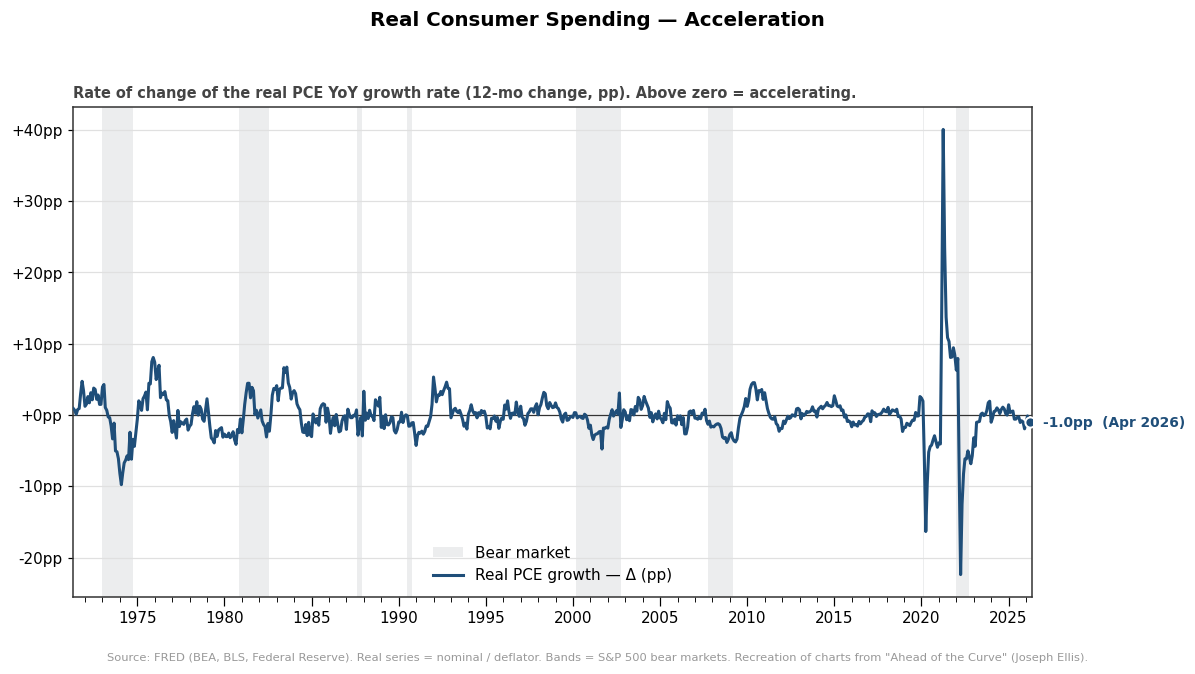
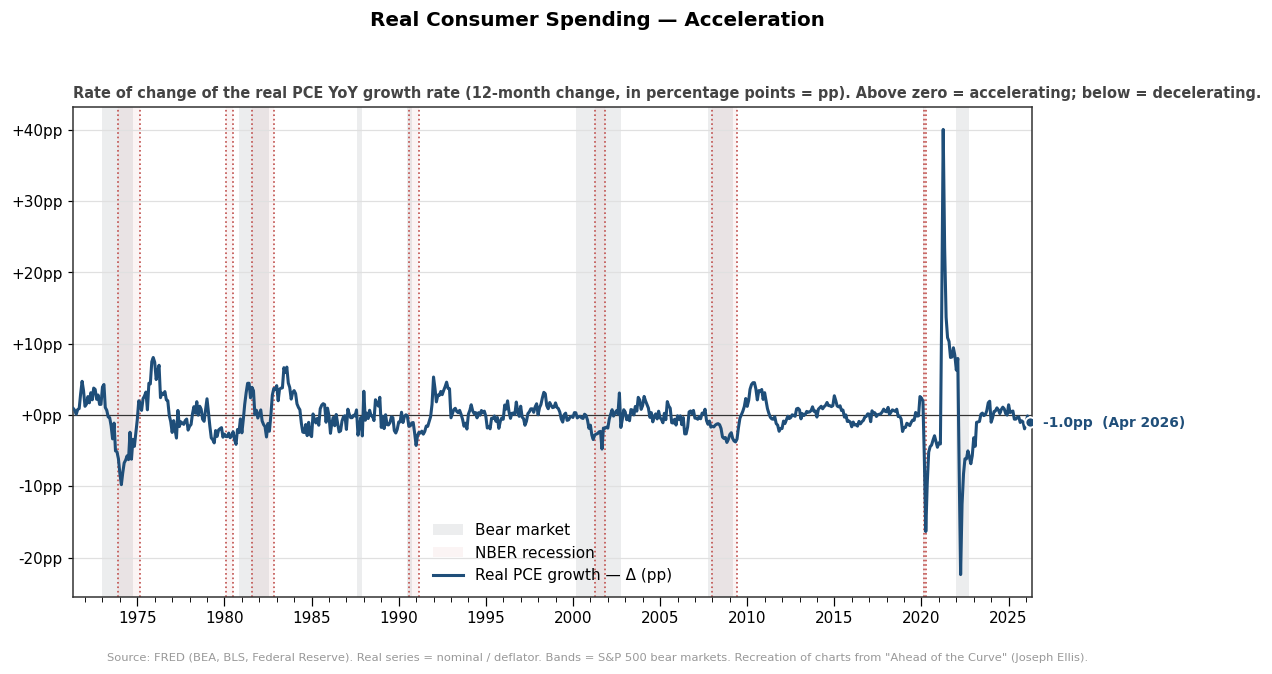
Ahead of the Curve: release footnotes, TOC, recession overlay, pp label
Per request:

- Release-schedule footnotes beneath each chart in the gallery: how often
  the series publishes, the latest period, the next expected release date
  (from FRED's release calendar), and which period that release covers --
  e.g. "Real PCE: monthly - latest Apr 2026 - next release ~Jun 25, 2026
  (covers May 2026)". New ahead_of_curve/schedule.py (series -> FRED
  release_id, reusing the release_calendar_ids from release_families.yaml).
- Clickable index (table of contents) at the top of the gallery, anchor
  links to each chart, with per-chart "back to index" links.
- NBER recession overlay, drawn distinctly from the grey bear-market bands:
  a faint red wash bracketed by dotted vertical lines at the official peak
  and trough. All figures now bands: both (grey bear + dotted recession).
- "pp" spelled out in the acceleration subtitles: "(12-month change, in
  percentage points = pp)".

Also: _sample_toggle.html -- a dependency-free proof-of-concept showing the
band overlays toggling on/off globally and per-chart (image-swap between
band/no-band variants), to answer whether interactive toggles are feasible.
Not wired into the real gallery.

Tests: +1 (figure_footnotes cadence/next-release/period). 135 total green.

diff --git a/readable/ahead_of_curve/index.html b/readable/ahead_of_curve/index.html
@@ -4,15 +4,30 @@
 <style>
  body { font-family: -apple-system, Segoe UI, Roboto, sans-serif; max-width: 980px;
         margin: 2rem auto; padding: 0 1rem; color: #222; }
- h1 { font-size: 1.5rem; }
- .meta { color: #777; font-size: .85rem; margin-bottom: 2rem; }
- section { margin: 2.5rem 0; }
- h2 { font-size: 1.1rem; margin-bottom: .2rem; }
+ h1 { font-size: 1.5rem; margin-bottom: .2rem; }
+ .meta { color: #777; font-size: .85rem; margin-bottom: 1.5rem; }
+ .toc { background: #f7f8fa; border: 1px solid #e2e2e2; border-radius: 8px;
+         padding: .8rem 1.2rem; margin-bottom: 2.5rem; }
+ .toc ol { margin: .4rem 0 0; padding-left: 1.4rem; }
+ .toc li { margin: .2rem 0; }
+ .toc a { color: #1F4E79; text-decoration: none; }
+ .toc a:hover { text-decoration: underline; }
+ section { margin: 2.5rem 0; scroll-margin-top: 1rem; }
+ h2 { font-size: 1.15rem; margin-bottom: .2rem; }
  .sub { color: #555; font-size: .9rem; margin: 0 0 .6rem; }
  img { width: 100%; border: 1px solid #e2e2e2; border-radius: 6px; }
+ .foot-label { font-size: .75rem; text-transform: uppercase; letter-spacing: .04em;
+                color: #999; margin: .8rem 0 .2rem; }
+ ul.foot { margin: 0; padding-left: 1.2rem; color: #555; font-size: .82rem; }
+ ul.foot li { margin: .15rem 0; }
+ .back { font-size: .8rem; margin-top: .6rem; }
+ .back a { color: #999; text-decoration: none; }
 </style></head><body>
+<a id="top"></a>
 <h1>Ahead of the Curve — Charts</h1>
 <p class="meta">Recreation of Joseph Ellis's charts · year-over-year rate of change ·
-shaded bands = S&amp;P 500 bear markets · data through 2026-05-01 · 8 charts</p>
-<section><h2>Real Consumer Spending (PCE), Year-over-Year</h2><p class="sub">The leading indicator: real PCE growth peaks and rolls over ahead of bear markets.</p><img src="real_pce_yoy.png" alt="Real Consumer Spending (PCE), Year-over-Year"/></section><section><h2>Real Consumer Spending — Acceleration</h2><p class="sub">Rate of change of the real PCE YoY growth rate (12-mo change, pp). Above zero = accelerating.</p><img src="pce_accel.png" alt="Real Consumer Spending — Acceleration"/></section><section><h2>Consumer Spending Leads Capital Spending</h2><p class="sub">Real business capex (YoY) follows real PCE (YoY) with a lag — the book's core lead/lag.</p><img src="pce_leads_capex.png" alt="Consumer Spending Leads Capital Spending"/></section><section><h2>Real Capital Spending — Acceleration</h2><p class="sub">Rate of change of the real business-capex YoY growth rate (12-mo change, pp). Above zero = accelerating.</p><img src="capex_accel.png" alt="Real Capital Spending — Acceleration"/></section><section><h2>Consumer Spending and Employment</h2><p class="sub">Employment growth (YoY) tracks and follows real consumer spending.</p><img src="pce_vs_employment.png" alt="Consumer Spending and Employment"/></section><section><h2>Real Hourly Earnings and Consumer Spending</h2><p class="sub">Real average hourly earnings (AHETPI deflated by CPI), YoY, vs real PCE.</p><img src="real_earnings_vs_spending.png" alt="Real Hourly Earnings and Consumer Spending"/></section><section><h2>Real Hourly Earnings — Acceleration</h2><p class="sub">Rate of change of the real-hourly-earnings YoY growth rate (12-mo change, pp). Above zero = accelerating.</p><img src="earnings_accel.png" alt="Real Hourly Earnings — Acceleration"/></section><section><h2>Interest Rates and Bear Markets</h2><p class="sub">Fed funds and the 10-year Treasury (levels) against the bear-market record.</p><img src="rates_vs_bears.png" alt="Interest Rates and Bear Markets"/></section>
+grey bands = S&amp;P 500 bear markets · dotted red = NBER recessions · data through 2026-05-01 ·
+8 charts</p>
+<nav class="toc"><strong>Charts on this page</strong><ol><li><a href="#real_pce_yoy">Real Consumer Spending (PCE), Year-over-Year</a></li><li><a href="#pce_accel">Real Consumer Spending — Acceleration</a></li><li><a href="#pce_leads_capex">Consumer Spending Leads Capital Spending</a></li><li><a href="#capex_accel">Real Capital Spending — Acceleration</a></li><li><a href="#pce_vs_employment">Consumer Spending and Employment</a></li><li><a href="#real_earnings_vs_spending">Real Hourly Earnings and Consumer Spending</a></li><li><a href="#earnings_accel">Real Hourly Earnings — Acceleration</a></li><li><a href="#rates_vs_bears">Interest Rates and Bear Markets</a></li></ol></nav>
+<section id="real_pce_yoy"><h2>Real Consumer Spending (PCE), Year-over-Year</h2><p class="sub">The leading indicator: real PCE growth peaks and rolls over ahead of bear markets.</p><img src="real_pce_yoy.png" alt="Real Consumer Spending (PCE), Year-over-Year"/><p class="foot-label">Release schedule</p><ul class="foot"><li>Real PCE (YoY): monthly · latest Apr 2026 · next release ~Jun 25, 2026 (covers May 2026)</li></ul><p class="back"><a href="#top">↑ back to index</a></p></section><section id="pce_accel"><h2>Real Consumer Spending — Acceleration</h2><p class="sub">Rate of change of the real PCE YoY growth rate (12-month change, in percentage points = pp). Above zero = accelerating; below = decelerating.</p><img src="pce_accel.png" alt="Real Consumer Spending — Acceleration"/><p class="foot-label">Release schedule</p><ul class="foot"><li>Real PCE growth: monthly · latest Apr 2026 · next release ~Jun 25, 2026 (covers May 2026)</li></ul><p class="back"><a href="#top">↑ back to index</a></p></section><section id="pce_leads_capex"><h2>Consumer Spending Leads Capital Spending</h2><p class="sub">Real business capex (YoY) follows real PCE (YoY) with a lag — the book's core lead/lag.</p><img src="pce_leads_capex.png" alt="Consumer Spending Leads Capital Spending"/><p class="foot-label">Release schedule</p><ul class="foot"><li>Real PCE (YoY): monthly · latest Apr 2026 · next release ~Jun 25, 2026 (covers May 2026)</li><li>Real Business Capex (YoY): quarterly · latest Jan 2026 · next release ~Jun 25, 2026 (covers Apr 2026)</li></ul><p class="back"><a href="#top">↑ back to index</a></p></section><section id="capex_accel"><h2>Real Capital Spending — Acceleration</h2><p class="sub">Rate of change of the real business-capex YoY growth rate (12-month change, in percentage points = pp). Above zero = accelerating; below = decelerating.</p><img src="capex_accel.png" alt="Real Capital Spending — Acceleration"/><p class="foot-label">Release schedule</p><ul class="foot"><li>Real capex growth: quarterly · latest Jan 2026 · next release ~Jun 25, 2026 (covers Apr 2026)</li></ul><p class="back"><a href="#top">↑ back to index</a></p></section><section id="pce_vs_employment"><h2>Consumer Spending and Employment</h2><p class="sub">Employment growth (YoY) tracks and follows real consumer spending.</p><img src="pce_vs_employment.png" alt="Consumer Spending and Employment"/><p class="foot-label">Release schedule</p><ul class="foot"><li>Real PCE (YoY): monthly · latest Apr 2026 · next release ~Jun 25, 2026 (covers May 2026)</li><li>Civilian Employment (YoY): monthly · latest Apr 2026 · next release ~Jun 05, 2026 (covers May 2026)</li></ul><p class="back"><a href="#top">↑ back to index</a></p></section><section id="real_earnings_vs_spending"><h2>Real Hourly Earnings and Consumer Spending</h2><p class="sub">Real average hourly earnings (AHETPI deflated by CPI), YoY, vs real PCE.</p><img src="real_earnings_vs_spending.png" alt="Real Hourly Earnings and Consumer Spending"/><p class="foot-label">Release schedule</p><ul class="foot"><li>Real Avg Hourly Earnings (YoY): monthly · latest Apr 2026 · next release ~Jun 05, 2026 (covers May 2026)</li><li>Real PCE (YoY): monthly · latest Apr 2026 · next release ~Jun 25, 2026 (covers May 2026)</li></ul><p class="back"><a href="#top">↑ back to index</a></p></section><section id="earnings_accel"><h2>Real Hourly Earnings — Acceleration</h2><p class="sub">Rate of change of the real-hourly-earnings YoY growth rate (12-month change, in percentage points = pp). Above zero = accelerating; below = decelerating.</p><img src="earnings_accel.png" alt="Real Hourly Earnings — Acceleration"/><p class="foot-label">Release schedule</p><ul class="foot"><li>Real earnings growth: monthly · latest Apr 2026 · next release ~Jun 05, 2026 (covers May 2026)</li></ul><p class="back"><a href="#top">↑ back to index</a></p></section><section id="rates_vs_bears"><h2>Interest Rates and Bear Markets</h2><p class="sub">Fed funds and the 10-year Treasury (levels) against the bear-market record.</p><img src="rates_vs_bears.png" alt="Interest Rates and Bear Markets"/><p class="foot-label">Release schedule</p><ul class="foot"><li>Fed Funds Rate: monthly average (H.15 updates each business day) · latest May 2026</li><li>10-Year Treasury: monthly average (H.15 updates each business day) · latest May 2026</li></ul><p class="back"><a href="#top">↑ back to index</a></p></section>
 </body></html>

diff --git a/readable/ahead_of_curve/_sample_toggle.html b/readable/ahead_of_curve/_sample_toggle.html
@@ -1,0 +1,50 @@
+<!doctype html>
+<html lang="en"><head><meta charset="utf-8"/>
+<title>Ahead of the Curve — toggle SAMPLE</title>
+<style>
+ body { font-family: -apple-system, Segoe UI, Roboto, sans-serif; max-width: 980px;
+        margin: 2rem auto; padding: 0 1rem; color: #222; }
+ h1 { font-size: 1.4rem; }
+ .note { background: #fff8e1; border: 1px solid #f0e0a0; border-radius: 8px;
+         padding: .8rem 1.2rem; font-size: .9rem; color: #5a4b00; margin-bottom: 1.5rem; }
+ .global { background: #f7f8fa; border: 1px solid #e2e2e2; border-radius: 8px;
+           padding: .7rem 1.2rem; margin-bottom: 1.5rem; font-weight: 600; }
+ section { margin: 2rem 0; }
+ h2 { font-size: 1.05rem; margin-bottom: .3rem; }
+ label.row { display: block; font-size: .85rem; color: #444; margin: .2rem 0 .5rem; font-weight: 400; }
+ img { width: 100%; border: 1px solid #e2e2e2; border-radius: 6px; }
+</style></head><body>
+<h1>Toggle sample — turn the S&amp;P 500 bear-market / recession bands on &amp; off</h1>
+<div class="note">
+ <strong>This is a proof-of-concept, not the real gallery.</strong> It shows that the band
+ overlays can be turned on/off — globally (all charts at once) and per-chart — while keeping
+ the exact matplotlib look. It works by swapping between two pre-rendered images (bands / no
+ bands). Only two charts are wired here as a demo. Tell me if you want this rolled into the
+ real gallery (and/or a Plotly version with live hover + zoom).
+</div>
+
+<div class="global">
+ <label><input type="checkbox" id="globalBands" checked
+   onchange="document.querySelectorAll('.bandbox').forEach(b=>{b.checked=this.checked; b.onchange();});">
+  Show bands on ALL charts</label>
+</div>
+
+<section>
+ <h2>Real Consumer Spending (PCE), Year-over-Year</h2>
+ <label class="row"><input type="checkbox" class="bandbox" checked
+   data-on="real_pce_yoy.png" data-off="real_pce_yoy_nobands.png"
+   onchange="var img=document.getElementById('img_pce'); img.src=this.checked?this.dataset.on:this.dataset.off;">
+  Bands on this chart</label>
+ <img id="img_pce" src="real_pce_yoy.png" alt="Real PCE YoY"/>
+</section>
+
+<section>
+ <h2>Consumer Spending Leads Capital Spending</h2>
+ <label class="row"><input type="checkbox" class="bandbox" checked
+   data-on="pce_leads_capex.png" data-off="pce_leads_capex_nobands.png"
+   onchange="var img=document.getElementById('img_capex'); img.src=this.checked?this.dataset.on:this.dataset.off;">
+  Bands on this chart</label>
+ <img id="img_capex" src="pce_leads_capex.png" alt="PCE leads capex"/>
+</section>
+
+</body></html>

diff --git a/ahead_of_curve/build.py b/ahead_of_curve/build.py
@@ -22,6 +22,7 @@ from .charts import (
     recession_ranges,
     render_figure,
 )
+from .schedule import SERIES_RELEASE_ID, figure_footnotes, next_release_dates
 
 _DIR = Path(__file__).parent
 _FIGURES_YAML = _DIR / "figures.yaml"
@@ -49,33 +50,59 @@ def fetch_series(client: FREDClient, ids: set[str]) -> dict[str, pd.Series]:
 
 
 def _render_gallery_html(figs: list[FigureSpec], rendered: dict[str, Path],
-                         out_path: Path, generated_label: str) -> Path:
-    cards = []
+                         out_path: Path, generated_label: str,
+                         footnotes: dict[str, list[str]]) -> Path:
+    toc_items, cards = [], []
     for f in figs:
         png = rendered.get(f.id)
         if png is None:
             continue
+        toc_items.append(f'<li><a href="#{f.id}">{f.title}</a></li>')
+        foot = footnotes.get(f.id) or []
+        foot_html = ""
+        if foot:
+            rows = "".join(f"<li>{line}</li>" for line in foot)
+            foot_html = (f'<p class="foot-label">Release schedule</p>'
+                         f'<ul class="foot">{rows}</ul>')
         cards.append(
-            f'<section><h2>{f.title}</h2>'
+            f'<section id="{f.id}"><h2>{f.title}</h2>'
             f'<p class="sub">{f.subtitle}</p>'
-            f'<img src="{png.name}" alt="{f.title}"/></section>'
+            f'<img src="{png.name}" alt="{f.title}"/>'
+            f'{foot_html}'
+            f'<p class="back"><a href="#top">↑ back to index</a></p></section>'
         )
+    toc = f'<nav class="toc"><strong>Charts on this page</strong><ol>{"".join(toc_items)}</ol></nav>'
     html = f"""<!doctype html>
 <html lang="en"><head><meta charset="utf-8"/>
 <title>Ahead of the Curve — Charts</title>
 <style>
  body {{ font-family: -apple-system, Segoe UI, Roboto, sans-serif; max-width: 980px;
         margin: 2rem auto; padding: 0 1rem; color: #222; }}
- h1 {{ font-size: 1.5rem; }}
- .meta {{ color: #777; font-size: .85rem; margin-bottom: 2rem; }}
- section {{ margin: 2.5rem 0; }}
- h2 {{ font-size: 1.1rem; margin-bottom: .2rem; }}
+ h1 {{ font-size: 1.5rem; margin-bottom: .2rem; }}
+ .meta {{ color: #777; font-size: .85rem; margin-bottom: 1.5rem; }}
+ .toc {{ background: #f7f8fa; border: 1px solid #e2e2e2; border-radius: 8px;
+         padding: .8rem 1.2rem; margin-bottom: 2.5rem; }}
+ .toc ol {{ margin: .4rem 0 0; padding-left: 1.4rem; }}
+ .toc li {{ margin: .2rem 0; }}
+ .toc a {{ color: #1F4E79; text-decoration: none; }}
+ .toc a:hover {{ text-decoration: underline; }}
+ section {{ margin: 2.5rem 0; scroll-margin-top: 1rem; }}
+ h2 {{ font-size: 1.15rem; margin-bottom: .2rem; }}
  .sub {{ color: #555; font-size: .9rem; margin: 0 0 .6rem; }}
  img {{ width: 100%; border: 1px solid #e2e2e2; border-radius: 6px; }}
+ .foot-label {{ font-size: .75rem; text-transform: uppercase; letter-spacing: .04em;
+                color: #999; margin: .8rem 0 .2rem; }}
+ ul.foot {{ margin: 0; padding-left: 1.2rem; color: #555; font-size: .82rem; }}
+ ul.foot li {{ margin: .15rem 0; }}
+ .back {{ font-size: .8rem; margin-top: .6rem; }}
+ .back a {{ color: #999; text-decoration: none; }}
 </style></head><body>
+<a id="top"></a>
 <h1>Ahead of the Curve — Charts</h1>
 <p class="meta">Recreation of Joseph Ellis's charts · year-over-year rate of change ·
-shaded bands = S&amp;P 500 bear markets · {generated_label} · {len(cards)} charts</p>
+grey bands = S&amp;P 500 bear markets · dotted red = NBER recessions · {generated_label} ·
+{len(cards)} charts</p>
+{toc}
 {''.join(cards)}
 </body></html>"""
     out_path.write_text(html, encoding="utf-8")
@@ -118,8 +145,15 @@ def build(client: FREDClient | None = None, out_dir: Path = _OUT_DIR) -> dict[st
         except Exception as exc:  # noqa: BLE001
             print(f"[WARN] ahead-of-curve: figure {f.id} failed: {exc}")
 
+    # Release-schedule footnotes (when the next data point is expected, for what period).
+    release_ids = {SERIES_RELEASE_ID[s.fred] for f in figs for s in f.series
+                   if s.fred in SERIES_RELEASE_ID}
+    next_dates = next_release_dates(client, release_ids)
+    footnotes = figure_footnotes(figs, fetched, next_dates)
+
     generated_label = f"data through {end.date()}"
-    index = _render_gallery_html(figs, rendered, out_dir / "index.html", generated_label)
+    index = _render_gallery_html(
+        figs, rendered, out_dir / "index.html", generated_label, footnotes)
     rendered["index"] = index
     return rendered
 

diff --git a/ahead_of_curve/schedule.py b/ahead_of_curve/schedule.py
@@ -1,0 +1,99 @@
+"""Release-schedule footnotes for the Ahead-of-the-Curve charts.
+
+For each chart's headline (numerator) series, work out: how often it publishes, the
+latest period we have, when the next data point is expected (FRED's scheduled release
+date), and which period that release will cover. Reuses the FRED release-date calendar
+(the same release_calendar_ids macro_monitor's weekly preview uses).
+"""
+from __future__ import annotations
+
+from datetime import date
+
+import pandas as pd
+
+from ..collectors.fred import FREDClient
+from .charts import FigureSpec, _infer_periods_per_year
+
+# FRED series -> the FRED release that publishes it (release_id).
+SERIES_RELEASE_ID: dict[str, int] = {
+    "PCE": 54, "PCEPI": 54,        # Personal Income & Outlays
+    "PNFI": 53, "GDPDEF": 53,      # Gross Domestic Product
+    "CE16OV": 50, "AHETPI": 50,    # Employment Situation
+    "CPIAUCSL": 10,                # Consumer Price Index
+    "FEDFUNDS": 18, "GS10": 18,    # H.15 Selected Interest Rates
+}
+RELEASE_NAME: dict[int, str] = {
+    54: "Personal Income & Outlays", 53: "GDP", 50: "Employment Situation",
+    10: "CPI", 18: "H.15 Selected Interest Rates",
+}
+_FREQ = {52: "weekly", 12: "monthly", 4: "quarterly", 1: "annual"}
+
+
+def _next_period(latest: pd.Timestamp, periods_per_year: int) -> pd.Timestamp:
+    """The reference period the NEXT release will cover = latest period + one step."""
+    if periods_per_year == 4:
+        return latest + pd.DateOffset(months=3)
+    if periods_per_year == 1:
+        return latest + pd.DateOffset(years=1)
+    return latest + pd.DateOffset(months=1)
+
+
+def next_release_dates(
+    client: FREDClient, release_ids: set[int], today: date | None = None
+) -> dict[int, date | None]:
+    """{release_id: the next future scheduled release date, or None if unavailable}."""
+    today = today or date.today()
+    iso = today.isoformat()
+    out: dict[int, date | None] = {}
+    for rid in release_ids:
+        try:
+            dates = client.get_release_dates(
+                release_id=rid, realtime_start=iso, realtime_end="9999-12-31",
+                include_release_dates_with_no_data=True,
+            )
+            future = sorted(d.date for d in dates if d.date > today)
+            out[rid] = future[0] if future else None
+        except Exception:  # noqa: BLE001 — schedule is a nicety; never break the build
+            out[rid] = None
+    return out
+
+
+def figure_footnotes(
+    figures: list[FigureSpec],
+    fetched: dict[str, pd.Series],
+    next_dates: dict[int, date | None],
+) -> dict[str, list[str]]:
+    """{figure_id: [one footnote line per headline series]}.
+
+    Footnote form: "Real PCE: monthly · latest Apr 2026 · next release ~Jun 25, 2026
+    (covers May 2026)". Deflator series (divide_by) are omitted — the numerator is the
+    economic series that drives the data point."""
+    out: dict[str, list[str]] = {}
+    for f in figures:
+        lines: list[str] = []
+        seen: set[str] = set()
+        for s in f.series:
+            sid = s.fred
+            if sid in seen:
+                continue
+            seen.add(sid)
+            base = fetched.get(sid)
+            if base is None or base.dropna().empty:
+                continue
+            ppy = _infer_periods_per_year(base)
+            freq = _FREQ.get(ppy, "periodic")
+            latest = base.dropna().index.max()
+            rid = SERIES_RELEASE_ID.get(sid)
+            nd = next_dates.get(rid) if rid is not None else None
+            cov = _next_period(latest, ppy)
+            label = s.label.split(" — ")[0]  # trim the "— Δ (pp)" suffix on accel labels
+            if rid == 18:  # H.15 rates publish each business day; period is the monthly avg
+                lines.append(f"{label}: monthly average (H.15 updates each business day) "
+                             f"· latest {latest:%b %Y}")
+            elif nd is not None:
+                lines.append(f"{label}: {freq} · latest {latest:%b %Y} · "
+                             f"next release ~{nd:%b %d, %Y} (covers {cov:%b %Y})")
+            else:
+                lines.append(f"{label}: {freq} · latest {latest:%b %Y}")
+        out[f.id] = lines
+    return out

diff --git a/ahead_of_curve/charts.py b/ahead_of_curve/charts.py
@@ -117,10 +117,24 @@ def recession_ranges(usrec: pd.Series) -> list[tuple[pd.Timestamp, pd.Timestamp]
 
 
 def _shade(ax, ranges, color, label) -> None:
+    """Solid translucent band — used for bear markets (the primary overlay)."""
     first = True
     for a, b in ranges:
         ax.axvspan(a, b, color=color, alpha=0.18, lw=0,
                    label=(label if first else None), zorder=0)
+        first = False
+
+
+def _mark_recessions(ax, ranges, label) -> None:
+    """NBER recessions, drawn distinctly from the grey bear bands: a faint red wash
+    bracketed by dotted vertical lines at the official peak and trough. Reads clearly
+    even where it overlaps a grey bear-market band."""
+    first = True
+    for a, b in ranges:
+        ax.axvspan(a, b, color=_RECESSION_COLOR, alpha=0.06, lw=0,
+                   label=(label if first else None), zorder=0)
+        for x in (a, b):
+            ax.axvline(x, color=_RECESSION_COLOR, linestyle=":", linewidth=1.1, zorder=1)
         first = False
 
 
@@ -219,7 +233,7 @@ def render_figure(
         _shade(ax, ranges, _BEAR_COLOR, "Bear market")
     if fig_spec.bands in ("recession", "both"):
         ranges = [_clip(a, b) for a, b in recessions if b >= start and a <= end]
-        _shade(ax, ranges, _RECESSION_COLOR, "NBER recession")
+        _mark_recessions(ax, ranges, "NBER recession")
 
     units: set[str] = set()
     plotted_any = False

diff --git a/tests/test_ahead_of_curve.py b/tests/test_ahead_of_curve.py
@@ -122,6 +122,28 @@ def test_yoy_accel_sign_tracks_acceleration():
     assert accel.iloc[-1] < 0
 
 
+def test_figure_footnotes_report_cadence_next_release_and_period():
+    from datetime import date
+
+    from macro_monitor.ahead_of_curve.schedule import figure_footnotes
+
+    pce = _monthly([100.0 + i for i in range(40)], start="2023-01-01")  # latest = Apr 2026
+    capex = pd.Series(range(20), index=pd.date_range("2021-04-01", periods=20, freq="QS"), dtype=float)
+    fetched = {"PCE": pce, "PCEPI": pce, "PNFI": capex, "GDPDEF": capex}
+    figs, _ = parse_figures({"figures": [
+        {"id": "f", "title": "T", "series": [
+            {"fred": "PCE", "divide_by": "PCEPI", "label": "Real PCE (YoY)", "transform": "yoy"},
+            {"fred": "PNFI", "divide_by": "GDPDEF", "label": "Real Capex (YoY)", "transform": "yoy"},
+        ]},
+    ]})
+    next_dates = {54: date(2026, 6, 25), 53: date(2026, 6, 25)}
+    foot = figure_footnotes(figs, fetched, next_dates)["f"]
+    assert len(foot) == 2  # one per numerator series; deflators omitted
+    assert "monthly" in foot[0] and "next release ~Jun 25, 2026" in foot[0]
+    assert "covers May 2026" in foot[0]      # latest Apr + 1 month
+    assert "quarterly" in foot[1] and "covers" in foot[1]
+
+
 def test_config_files_present_and_valid():
     import yaml
     d = Path(__file__).parent.parent / "ahead_of_curve"
